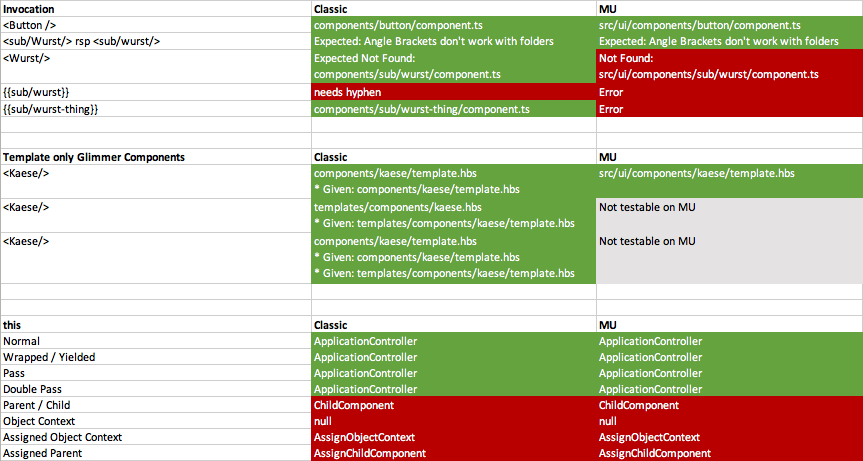
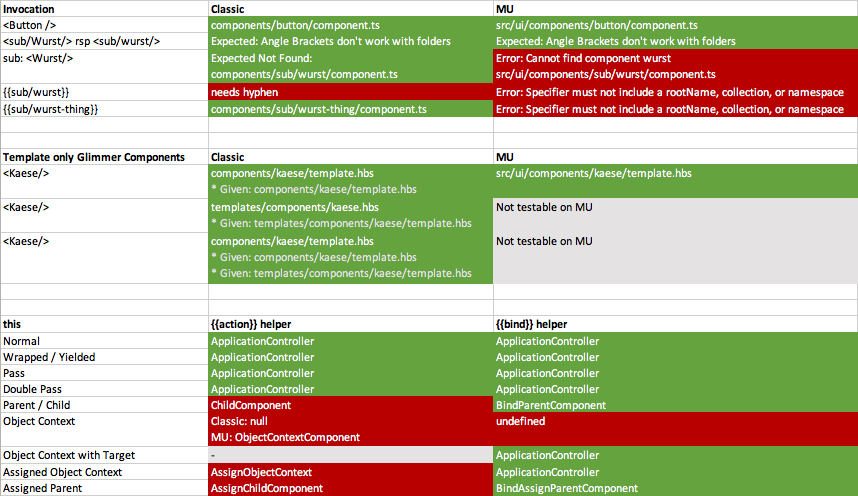
update tests with bind and action helper

diff --git a/mu/src/ui/components/assign-child/component.ts b/mu/src/ui/components/assign-child/component.ts
@@ -1,9 +1,9 @@
 import Component from 'sparkles-component';
-import ParentComponent from 'sparkles-test/components/parent/component';
 import { arg } from 'sparkles-decorators';
+import AssignParentComponent from 'sparkles-test/src/ui/components/assign-parent/component';
 
 interface Args {
-  parent: ParentComponent;
+  parent: AssignParentComponent;
 }
 
 export default class AssignChildComponent extends Component<Args> {

diff --git a/mu/src/ui/components/bind-assign-child/component.ts b/mu/src/ui/components/bind-assign-child/component.ts
@@ -1,0 +1,11 @@
+import Component from 'sparkles-component';
+import { arg } from 'sparkles-decorators';
+import BindAssignParentComponent from 'sparkles-test/src/ui/components/bind-assign-parent/component';
+
+interface Args {
+  parent: BindAssignParentComponent;
+}
+
+export default class BindAssignChildComponent extends Component<Args> {
+  @arg parent!: any;
+}

diff --git a/classic/app/components/bind-assign-child/component.ts b/classic/app/components/bind-assign-child/component.ts
@@ -1,0 +1,11 @@
+import Component from 'sparkles-component';
+import { arg } from 'sparkles-decorators';
+import BindAssignParentComponent from 'sparkles-test/components/bind-assign-parent/component';
+
+interface Args {
+  parent: BindAssignParentComponent;
+}
+
+export default class BindAssignChildComponent extends Component<Args> {
+  @arg parent!: any;
+}

diff --git a/classic/app/components/assign-parent/component.ts b/classic/app/components/assign-parent/component.ts
@@ -2,6 +2,6 @@ import Component from 'sparkles-component';
 
 export default class AssignParentComponent extends Component {
   clickIt() {
-    console.log('AssignParent.clickIt', this);
+    console.log('AssignParent.clickIt', this instanceof AssignParentComponent, this);
   }
 }

diff --git a/mu/src/ui/components/assign-parent/component.ts b/mu/src/ui/components/assign-parent/component.ts
@@ -2,6 +2,6 @@ import Component from 'sparkles-component';
 
 export default class AssignParentComponent extends Component {
   clickIt() {
-    console.log('AssignParent.clickIt', this);
+    console.log('AssignParent.clickIt', this instanceof AssignParentComponent, this);
   }
 }

diff --git a/mu/src/ui/components/bind-child/component.ts b/mu/src/ui/components/bind-child/component.ts
@@ -1,0 +1,10 @@
+import Component from 'sparkles-component';
+import BindParentComponent from 'sparkles-test/src/ui/components/bind-parent/component';
+
+interface Args {
+  parent: BindParentComponent;
+}
+
+export default class BindChildComponent extends Component<Args> {
+
+}

diff --git a/classic/app/components/bind-child/component.ts b/classic/app/components/bind-child/component.ts
@@ -1,0 +1,10 @@
+import Component from 'sparkles-component';
+import BindParentComponent from 'sparkles-test/components/bind-parent/component';
+
+interface Args {
+  parent: BindParentComponent;
+}
+
+export default class BindChildComponent extends Component<Args> {
+
+}

diff --git a/mu/src/ui/components/child/component.ts b/mu/src/ui/components/child/component.ts
@@ -1,5 +1,5 @@
 import Component from 'sparkles-component';
-import ParentComponent from 'sparkles-test/components/parent/component';
+import ParentComponent from 'sparkles-test/src/ui/components/parent/component';
 
 interface Args {
   parent: ParentComponent;

diff --git a/classic/app/components/bind-assign-object-context/component.ts b/classic/app/components/bind-assign-object-context/component.ts
@@ -1,0 +1,11 @@
+import SparklesComponent from 'sparkles-component';
+import { arg } from 'sparkles-decorators';
+
+interface Args {
+  parent: any;
+}
+
+export default class BindAssignObjectContext extends SparklesComponent<Args> {
+
+  @arg parent!: any;
+}

diff --git a/mu/src/ui/components/bind-assign-object-context/component.ts b/mu/src/ui/components/bind-assign-object-context/component.ts
@@ -1,0 +1,11 @@
+import SparklesComponent from 'sparkles-component';
+import { arg } from 'sparkles-decorators';
+
+interface Args {
+  parent: any;
+}
+
+export default class BindAssignObjectContext extends SparklesComponent<Args> {
+
+  @arg parent!: any;
+}

diff --git a/classic/app/components/parent/component.ts b/classic/app/components/parent/component.ts
@@ -2,6 +2,6 @@ import Component from 'sparkles-component';
 
 export default class ParentComponent extends Component {
   clickIt() {
-    console.log('Parent.clickIt', this);
+    console.log('Parent.clickIt', this instanceof ParentComponent, this);
   }
 }

diff --git a/mu/src/ui/components/parent/component.ts b/mu/src/ui/components/parent/component.ts
@@ -2,6 +2,6 @@ import Component from 'sparkles-component';
 
 export default class ParentComponent extends Component {
   clickIt() {
-    console.log('Parent.clickIt', this);
+    console.log('Parent.clickIt', this instanceof ParentComponent, this);
   }
 }
